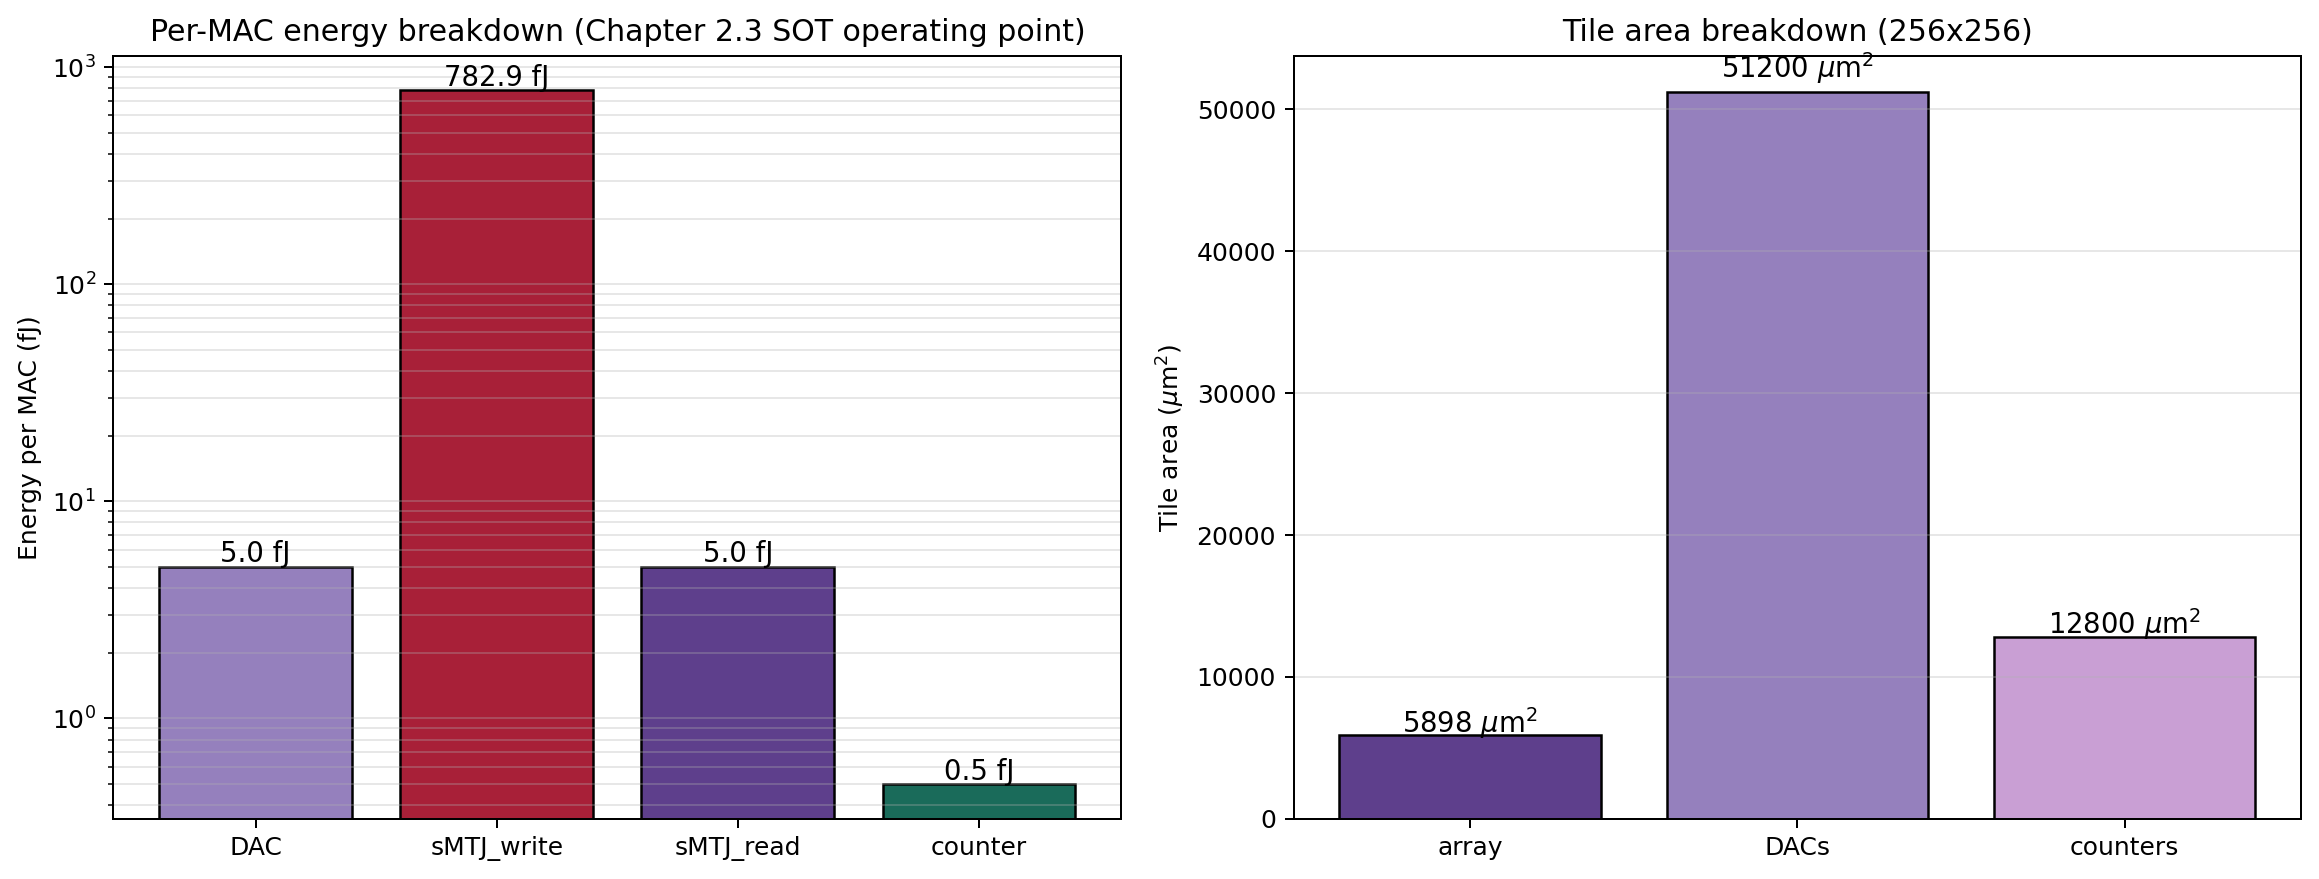
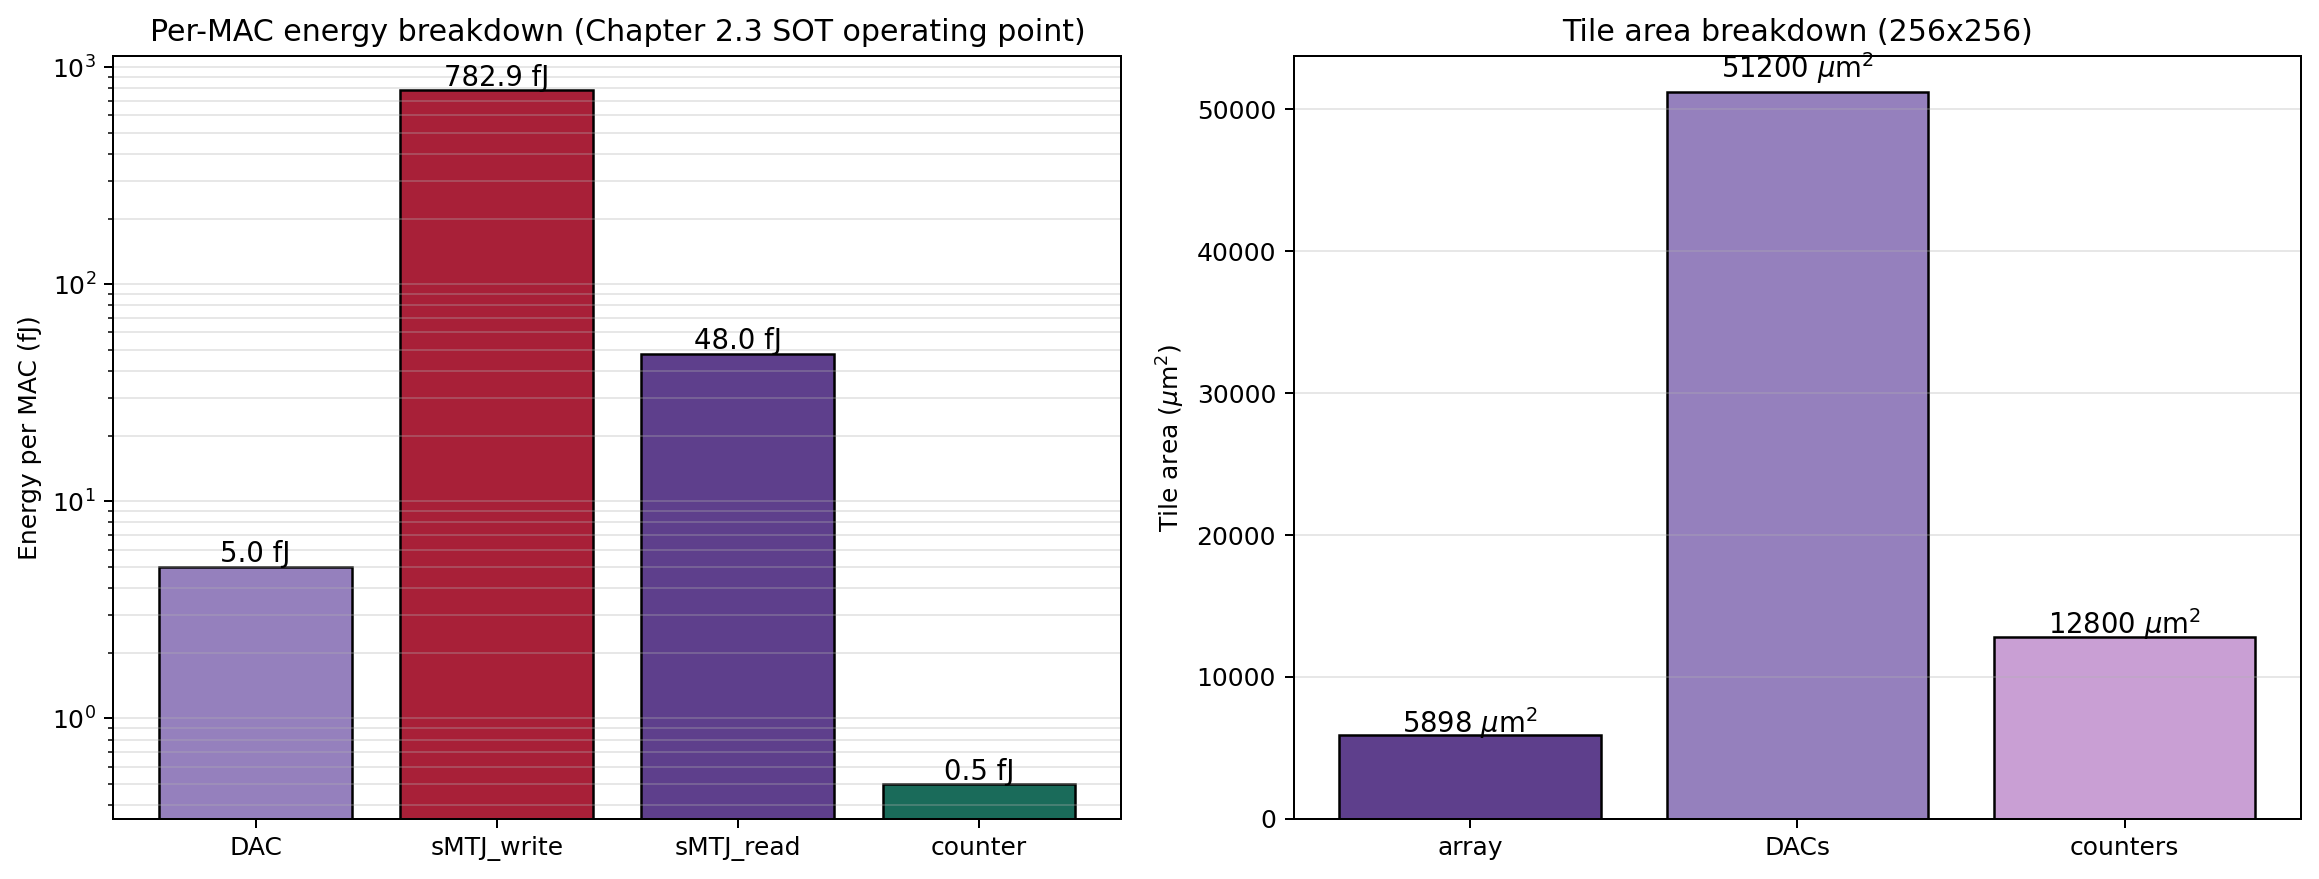
sim: fold extracted sky130 read energy into PPA defaults (de-stub, errata R1) + rerun
Point (5): make the simulator independently credible instead of needing an external override.
ppa/tech_params.py default e_smtj_read 5 fJ (28 nm placeholder) -> 48 fJ (sky130 StrongARM SA,
eda/ extraction); MEMORIES['smtj'].e_read_per_bit likewise; updated docstring/name/note.
Reran experiments 04 (PPA breakdown: read 0.6%->5.7%, write 93.6%) and 16 (RC hardware PPA);
figures regenerated. load_tech_params.py audit now uses an explicit 28 nm legacy baseline so the
legacy->grounded shift stays visible. DAC/counter remain labelled 28 nm placeholders (sky130-pending).

Changed region(s): [[0.2484, 0.3686, 0.3726, 0.6451]]

diff --git a/src/smtj_pbnn_sim/ppa/tech_params.py b/src/smtj_pbnn_sim/ppa/tech_params.py
@@ -2,10 +2,13 @@
 
 Defaults are set to the Chapter 2.3 measurement point: SOT-MTJ on 300 mm
 wafer, beta-W channel of R_SOT = 776 ohm, 0.75 ns write pulse at V_wr ~
-0.9 V, giving E_write ~ 0.78 pJ per cell. CMOS peripherals (DAC, counter,
-read sense) follow standard 28 nm order-of-magnitude figures and SHOULD
-be replaced with NeuroSim V1.5 floorplan output before reporting absolute
-numbers.
+0.9 V, giving E_write ~ 0.78 pJ per cell. The read-sense energy is now
+grounded in a sky130 StrongARM sense-amplifier extraction (``eda/``,
+errata R1): ``e_smtj_read = 48 fJ`` replaces the former 28 nm 5 fJ
+placeholder, so the simulator reports a credible read fraction without an
+external override. The remaining CMOS peripherals (DAC, counter, areas)
+are still 28 nm order-of-magnitude and SHOULD be replaced with sky130 /
+NeuroSim floorplan output before reporting their absolute numbers.
 
 NOTE (see ``docs/errata.md``, item E1): NeuroSim does NOT model the sMTJ
 stochastic SOT write -- that energy is physically grounded here via
@@ -34,9 +37,9 @@ class TechParams:
     t_write: float       = 0.75e-9     # write pulse width [s]
 
     # ---- CMOS peripheral energies (28 nm order of magnitude) -------------#
-    e_dac_step: float    = 5.0e-15     # one DAC code-set, per cell
-    e_smtj_read: float   = 5.0e-15     # bit-line read of one row activation
-    e_count_inc: float   = 0.5e-15     # one counter increment (CMOS digital)
+    e_dac_step: float    = 5.0e-15     # one DAC code-set, per cell (28 nm placeholder; awaits sky130 DAC)
+    e_smtj_read: float   = 4.8e-14     # sky130 StrongARM SA decision (eda/ extraction, ~48 fJ central; range 23-74); replaces 28 nm 5 fJ placeholder (errata R1)
+    e_count_inc: float   = 0.5e-15     # one counter increment (CMOS digital; 28 nm placeholder)
     e_sram_byte: float   = 5.0e-12     # one byte read from local SRAM
     e_dram_byte: float   = 6.4e-10     # one byte read from off-chip DRAM (Horowitz)
 
@@ -64,10 +67,10 @@ class TechParams:
     a_counter: float     = 50.0
 
     # ---- Identifying meta -----------------------------------------------#
-    name: str = "28nm-sot-default"
-    note: str = ("Chapter-2.3-grounded SOT-MTJ defaults plus 28 nm CMOS "
-                 "order-of-magnitude. Replace with NeuroSim V1.5 floorplan "
-                 "for accurate absolute numbers.")
+    name: str = "sky130-read-sot-default"
+    note: str = ("Chapter-2.3-grounded SOT-MTJ write + sky130-extracted "
+                 "StrongARM read (e_smtj_read=48 fJ); DAC/counter/areas "
+                 "remain 28 nm order-of-magnitude pending sky130 floorplan.")
 
     @property
     def e_smtj_write(self) -> float:
@@ -201,12 +204,13 @@ MEMORIES: dict[str, MemoryParams] = {
     ),
     "smtj": MemoryParams(
         name="sMTJ (SOT-MTJ stochastic, PBNN)",
-        e_read_per_bit=5.0e-15,           # CMOS sense-amp readout
+        e_read_per_bit=4.8e-14,           # sky130 StrongARM SA (eda/ extraction; errata R1)
         e_write_per_cell=0.78e-12,        # physics-grounded V^2/R * t
         t_write=0.75e-9,
         bits_per_weight=4,                 # T (default sweet-spot from exp 06)
         volatile=False,
-        citation=("Garello 2019 VLSI; Manchon 2019 Rev Mod Phys 91"),
+        citation=("Garello 2019 VLSI; Manchon 2019 Rev Mod Phys 91; "
+                  "read sky130 StrongARM SA (eda/)"),
     ),
 }
 

diff --git a/eda/interface/load_tech_params.py b/eda/interface/load_tech_params.py
@@ -6,9 +6,10 @@ Reads eda/extraction/peripheral_energy.yaml and recomputes per-MAC + MNIST-MLP e
 with the extracted values, comparing against the 28 nm-placeholder defaults. smtj_pbnn_sim
 is NOT modified; values are injected one-way (the sim never imports eda/).
 
-Currently only the WRITE energy is EDA-extracted (P2 first-cut, channel+driver). read/DAC/
-counter remain placeholders pending sky130 (P4). Once P4 lands the ADC/sense numbers in the
-same YAML, this script reports the big peripheral-fraction shift (errata R1) with no code change.
+The READ energy (sky130 StrongARM SA, 48 fJ) and the channel+driver WRITE energy are now
+EDA-grounded; the read value is folded into the simulator default (ppa/tech_params), so the sim
+is independently credible. This script audits the legacy-placeholder -> grounded shift (errata
+R1) against an explicit 28 nm baseline; DAC/counter remain sky130-pending.
 
 Run: python eda/interface/load_tech_params.py
 """
@@ -49,8 +50,9 @@ def mnist_energy(pm, T):
 
 def main():
     ext = load_extract()
-    tp = tech_params.default_28nm()
-    pm_def = energy.per_mac_energy(tp)                 # placeholders + Ohmic write
+    tp = tech_params.default_28nm()                    # current default: sky130-grounded read
+    tp_legacy = tech_params.TechParams(e_smtj_read=5.0e-15)  # historical 28 nm read placeholder
+    pm_def = energy.per_mac_energy(tp_legacy)          # legacy 28 nm placeholders + Ohmic write
     e_write_ext = ext.get("e_smtj_write", tp.e_smtj_write)
     e_read = ext.get("e_smtj_read", tp.e_smtj_read)
     e_dac = ext.get("e_dac_step", tp.e_dac_step)
@@ -61,8 +63,8 @@ def main():
           f"({100*(pm_ext-pm_def)/pm_def:+.1f}%)")
     print(f"  write : {tp.e_smtj_write*1e12:.3f} pJ (Ohmic)  ->  {e_write_ext*1e12:.3f} pJ "
           f"(P2 +driver)   write fraction {100*e_write_ext/pm_ext:.1f}%")
-    print(f"  read  : {tp.e_smtj_read*1e15:.1f} fJ (28nm placeholder)  ->  {e_read*1e15:.1f} fJ "
-          f"(sky130 StrongARM SA)   read fraction {100*e_read/pm_ext:.1f}%")
+    print(f"  read  : {tp_legacy.e_smtj_read*1e15:.1f} fJ (legacy 28nm)  ->  {e_read*1e15:.1f} fJ "
+          f"(sky130 StrongARM SA, now sim default)   read fraction {100*e_read/pm_ext:.1f}%")
     print(f"  DAC/counter: still 28nm placeholders ({(e_dac+e_cnt)*1e15:.1f} fJ, "
           f"{100*(e_dac+e_cnt)/pm_ext:.1f}% of per-MAC) -- await sky130 DAC")
     rows = []
